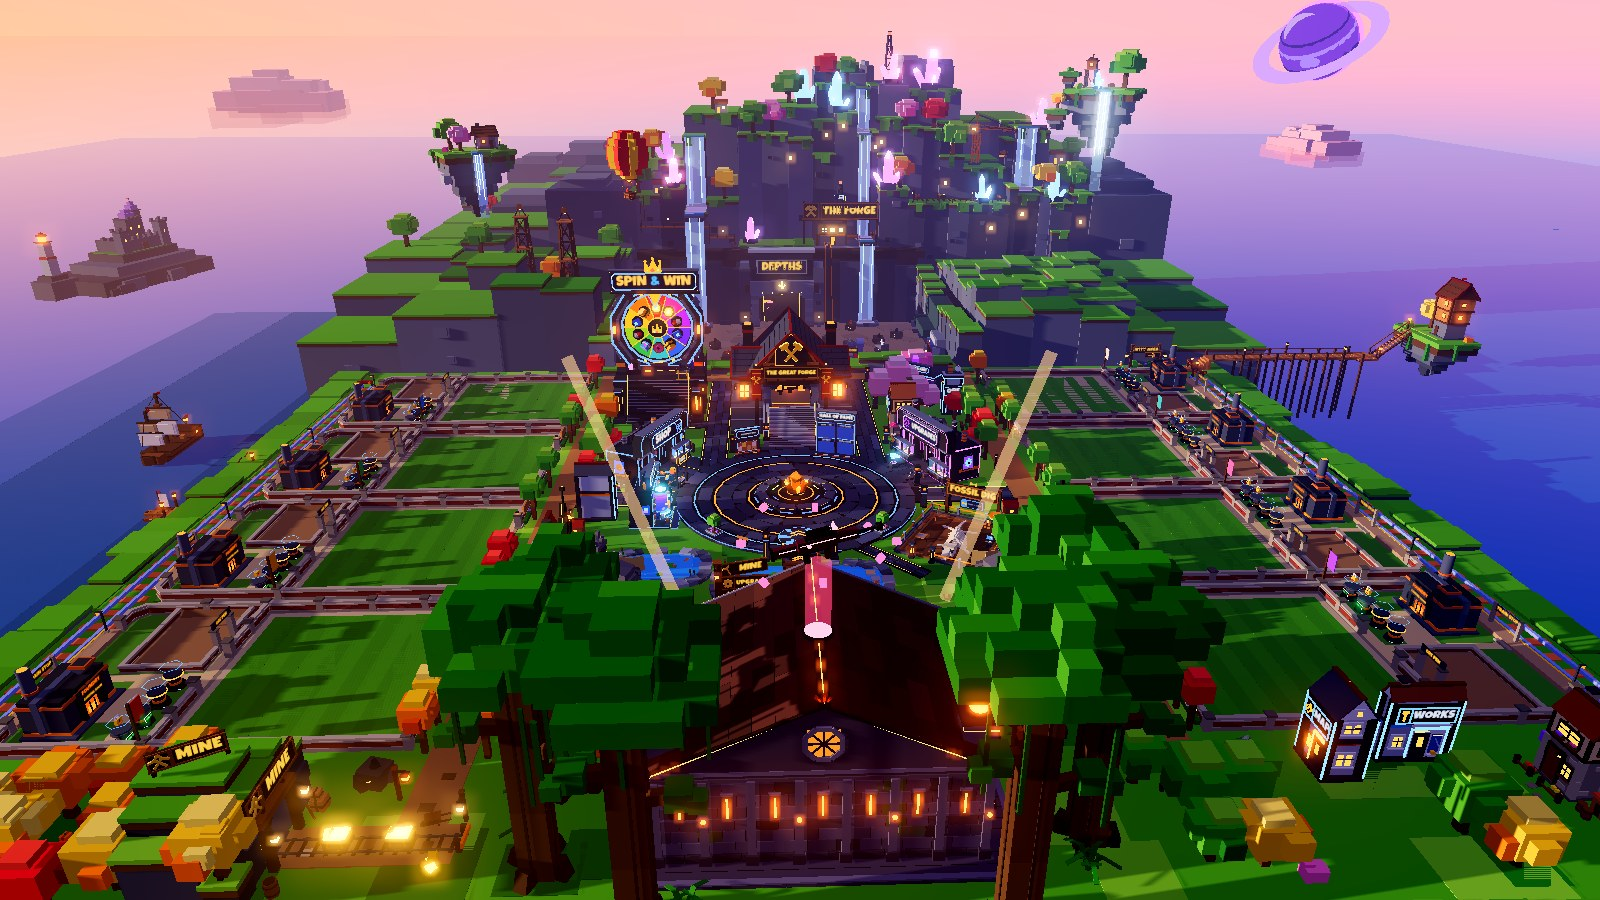
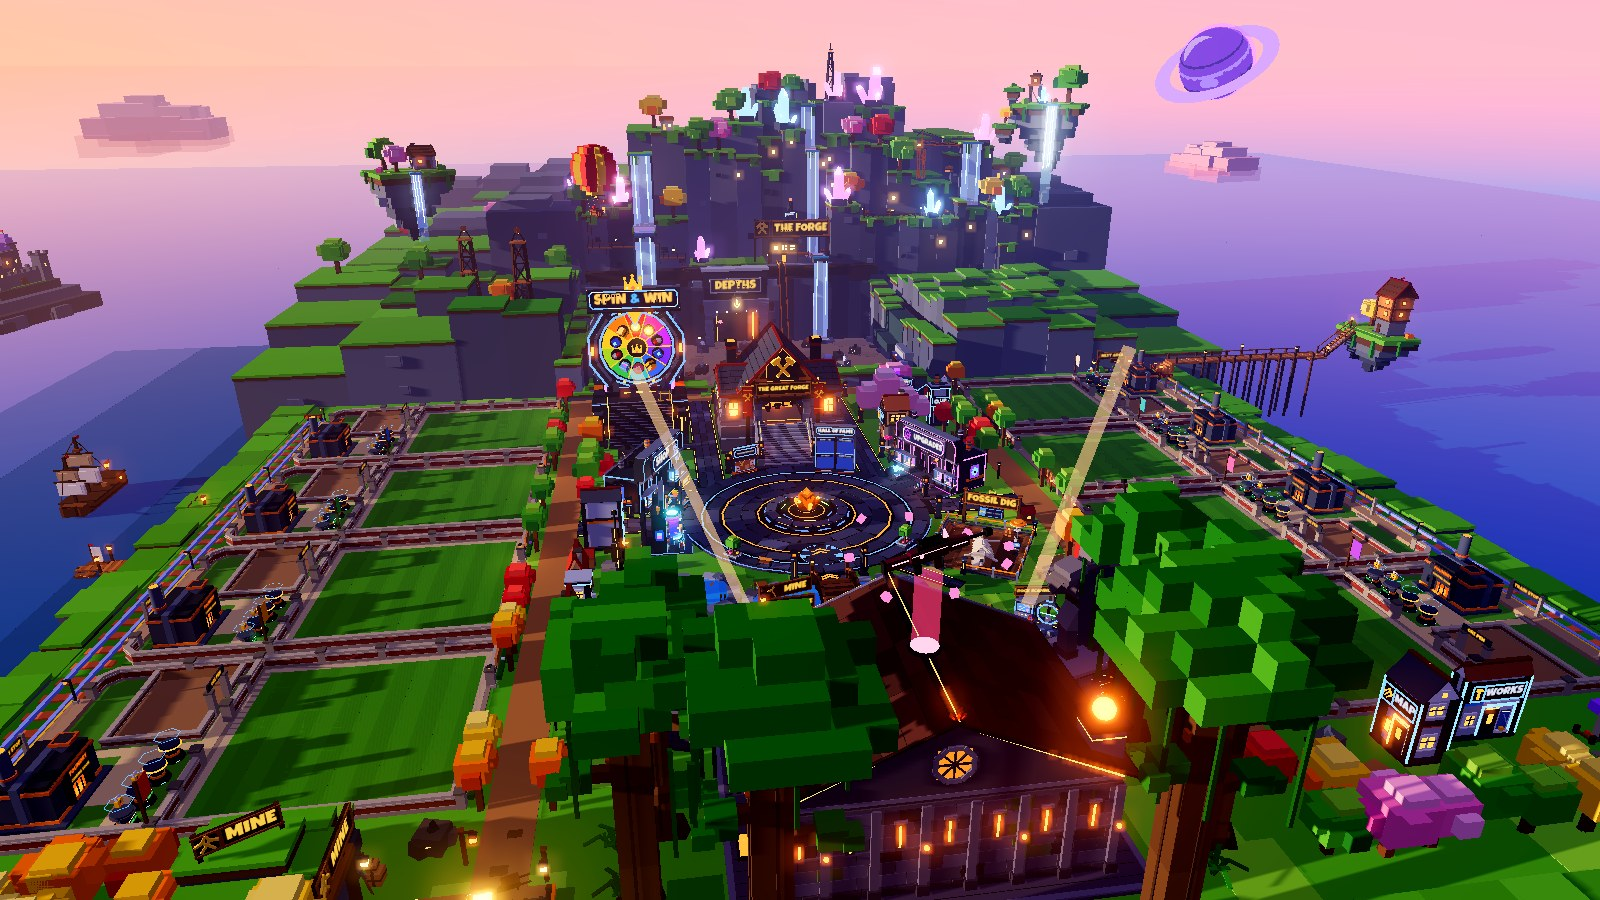
Lobby vault fix round 1: whole statues, 3/4 hero, hamlet lane, docs
- lobby_vault (0, 27, 32) -> (0, 18, 112): both statues and their raised
  blasters whole; lobby_hero (-40, 122, 252) -> (2, 10, -26) fov 50: a 3/4
  view over the vault's back gable, the gas giant wholly in frame
- the south-east hamlet gets a dirt lane (HamletLane + ToMap) from the east
  plot road's end to the MAP door, south of the ore outcrop; its lantern
  moves beside the lane
- Flora: a tree-free box keeps the autumn crowns off the MINE hill, the
  hamlet box stops at z 138 so the island's south edge keeps its trees
  (22 scattered trees); MineCottage -> RowCottage, Town/recipe comments
  describe the south-east hamlet
- Town.relocate moves the MINE models with PivotTo (pivots move too)
- budgets: MapParts 17500 (LobbyBudget: map + ore nodes + 200), LobbyParts
  11400 with a documented ~200-part buffer
- package shots re-aimed off the vault, statues and tree trunks (town_*,
  flora_autumn, flora_bridge, d_scanner)
- LOBBY_PLAN: six packages, 6.6 Package Vault, a Vault table in section 4,
  hero / vault / spawn / west rows fixed, the scanner, bridge and koi pond
  are no longer in the hero on purpose

diff --git a/docs/plans/LOBBY_PLAN.md b/docs/plans/LOBBY_PLAN.md
@@ -7,7 +7,7 @@ Layout data: [`src/shared/Config/LobbyLayout.luau`](../../src/shared/Config/Lobb
 (the single source of truth for every set piece below; only the art director edits it).
 
 The build is split into **six packages** (Sky, Backdrop, Plaza, Districts, Flora, and since
-2026-10-17 Vault, see section 0) that work in parallel without touching the same files (section 6).
+2026-10-17 Vault, see section 0 and 6.6) that work in parallel without touching the same files (section 6).
 
 > **Design v2 (2026-10-16) changes – read section 0 first.** They override the rows below where they differ.
 
@@ -21,15 +21,20 @@ The build is split into **six packages** (Sky, Backdrop, Plaza, Districts, Flora
   15.4 x 45 x 13.4 (the pedestals) turned (+-0.296, 0, -0.955) to the plaza, and the reservations `VaultTree1..6`
   (`Reserve = true`, Radius = the canopy: they keep the scatter and the town buildings away, may overlap their own
   package's pieces; the package places the trees as offsets from the vault). Budget 3500 parts / 6 lights
-  (~2970 / 5 built); MapParts 17350, LobbyParts 11250, lobby lights 40 / 45.
+  (~2970 / 5 built); lobby lights 40 / 45. MapParts 17500 (tests/LobbyBudget.spec.luau: the built map, ~15,800
+  parts, + one ore node on every node spawn, ~1,320, must stay 200 under it; ~170 parts of headroom), LobbyParts
+  11400 (~11,200 built: ~200 parts of deliberate buffer for small merges from the parallel package sessions).
   Moved for it: the south road (WorldLayout) now ends at the vault's steps (z 74, its strip at z 79); the **MINE**
   (`MineEntrance` + `MineYard`, Backdrop) went to the south-west corner past the west plot road's end, at
   (-100, 0, 134) facing E (Lowlands still builds them at their design spot; `DesignCenter`/`DesignFacing` on the
   pieces let Town.relocate move the built models); `AutumnCorner` behind the mine hill (-139, 0, 130); the paths
   `ToMine` (dirt under the rails), `MineLane` (west plot road's end -> yard) and `ToScanner` (north of the vault's
   steps); Flora's `MapTower`, `SpurWorkshop` and `GardenCottage` became a small hamlet in the south-east corner
-  past the east plot road's end; the junction lanterns flank the vault's steps. The ROCK SCANNER (43, 0, 69) keeps
-  6+ studs from the east statue.
+  past the east plot road's end, reached by the dirt lane `HamletLane` + `ToMap` (east plot road's end -> the MAP
+  door, south of the ore outcrop at (82, 118)); the west street's `MineCottage` was renamed `RowCottage` (it stands
+  by the vault's west statue, far from the MINE); the junction lanterns flank the vault's steps. The ROCK SCANNER
+  (43, 0, 69) keeps 5+ studs from the east statue's pedestal. A Flora tree-free box keeps the scatter's autumn
+  trees off the MINE hill (they frame it from the west and the south).
 - **SHOP** (`Shop`) is the **Gear shop** (boots, helmet with a head lamp, backpack, gloves, magnet): hook
   `ShopCounter` only. Pell is gone.
 - **`ShopFront` is Tobin's Sell stall** next to the SHOP: an ore cart with a counter and a brass scale (hook
@@ -107,7 +112,7 @@ next to the concept to see where each concept element lands.
 - Plaza center (0, 0, 0), radius 36. Spawn `TownSpawn` at (0, 0, 26) (Town.luau builds it).
 - Great Forge landmark at (0, 0, -52), facing south (+Z) toward the plaza.
 - Plots (can't move): 8 pads 56x56 centered at x = +-104, z = 84, 28, -28, -84.
-- Roads (can't move): south road x=0 z 36..140; spurs z=0 x +-36..70; plot roads x = +-70
+- Roads (can't move): south road x=0 z 36..74 (its strip ends at z 79, the Blaster Vault's steps); spurs z=0 x +-36..70; plot roads x = +-70
   z -112..116; forge paths x = +-26 z -28..-112; quarry rim road z=-112 x -70..70.
 - Quarry pit x -72..72, z -236..-122, floor Y -12, ramp at x=0 from z -112 to -140.
 - Ember Caves entrance (0, -12, -240) (18 wide x 16 tall), caves behind it under a roof
@@ -126,10 +131,10 @@ lines the plot roads with trees.
 
 | Shot | Camera -> target (fov) | Purpose |
 |---|---|---|
-| `lobby_hero` | (-8, 128, 262) -> (2, 6, -22) (50) | **The concept angle** (Blaster Vault, 2026-10-17): elevated from far south over the vault's roof, the vault and its jungle trees in the foreground, the MINE (hill, carts, two MINE boards) bottom left, the MAP / WORKS hamlet bottom right, the plaza with the fire crystal, SHOP / SPIN & WIN left, UPGRADES / FOSSIL DIG right, THE GREAT FORGE in the middle, the massif with DEPTHS, THE FORGE, waterfalls and crystals filling the upper middle, the violet gas giant wholly in the top-right sky. |
-| `lobby_vault` | (0, 28, 40) -> (0, 20, 112) (64) | From the plaza's south rim over the bridge to the BLASTER VAULT (like the owner's render): the glass front with its sign, the hologram, both statues whole with their blasters and the jungle trees, the signpost bottom right, the MINE board far right; nothing in front of the doors. |
-| `lobby_spawn` | (0, 9, 46) -> (0, 12, -40) (70) | What a new player sees: fire crystal, Great Forge, SHOP left, UPGRADES right, mountain and portal above the roof. |
-| `lobby_west` | (18, 18, 26) -> (-70, 6, -14) (65) | Toward the sunset: SHOP, SPIN & WIN, NW cliff and waterfall, sea, ships, pier, sun glitter. |
+| `lobby_hero` | (-40, 122, 252) -> (2, 10, -26) (50) | **The concept angle** (Blaster Vault, 2026-10-17): elevated from far south-south-west, a 3/4 view over the vault (its back gable, pillars and lit windows, the hologram over the ridge) and its jungle trees in the foreground, the two MINE boards bottom left, the MAP / WORKS hamlet bottom right, the plaza with the fire crystal, SHOP / SPIN & WIN left, UPGRADES / FOSSIL DIG right, THE GREAT FORGE in the middle, the massif with DEPTHS, THE FORGE, waterfalls and crystals filling the upper middle, the violet gas giant wholly in the top-right sky (tests/LobbySky.spec.luau). **No longer in the hero, on purpose:** the ROCK SCANNER, the creek bridge and the koi pond stand north of the vault, hidden by the vault, `VaultTree5` and the east statue from every camera south of the island; do not move the hero camera to bring them back (`lobby_south`, `lobby_vault` and `d_scanner` show them). |
+| `lobby_vault` | (0, 27, 32) -> (0, 18, 112) (64) | From the plaza's south rim over the bridge to the BLASTER VAULT (like the owner's render): the glass front with its sign, the hologram, both statues whole with their raised blasters and the jungle trees, the signpost bottom right, the MINE board right, the MAP house left; nothing in front of the doors. |
+| `lobby_spawn` | (0, 13, 58) -> (-4, 7, -50) (62) | What a new player sees: fire crystal, Great Forge, SHOP left, UPGRADES right, mountain and portal above the roof. |
+| `lobby_west` | (14, 20, 26) -> (-62, 8, -40) (65) | Toward the sunset: SHOP, SPIN & WIN, NW cliff and waterfall, sea, ships, pier, sun glitter. |
 | `lobby_east` | (-14, 16, 36) -> (64, 6, -6) (65) | UPGRADES, FOSSIL DIG, ROCK SCANNER, pink grove, NEXT AREA in the distance. |
 | `lobby_south` | (6, 34, -28) -> (-4, 0, 78) (65) | From the forge porch over the plaza to the bridge, ponds, signpost and the Blaster Vault between its statues. |
 | `lobby_backdrop` | (26, 24, -96) -> (4, 16, -240) (62) | From the quarry rim: DEPTHS portal, ForgeWorks, waterfalls, crane, the massif. |
@@ -193,7 +198,7 @@ piece's front (LookVector). Build inside your footprint and height budget.
 | SPIN & WIN wheel | SpinWheel | (-48, 0, 18) | 18 x 26 x 10 | (0.85, 0, 0.53) | wheel spins (Spin), EmberChest on its platform |
 | guild notice board | GuildBoard | (-15, 0, -30) | 9 x 10 x 3 | S | tag GuildBoard |
 | FOSSIL DIG with dinosaur skeleton | FossilDig | (50, 0, 24) | 18 x 8 x 24 | W | tag FossilDig |
-| ROCK SCANNER terminal | RockScanner | (56, 0, 80) | 12 x 10 x 10 | (-0.71, 0, 0.71) | tag OreCodex on the terminal |
+| ROCK SCANNER terminal | RockScanner | (43, 0, 69) | 12 x 11 x 10 | (-0.6, 0, 0.8) | tag OreCodex on the terminal; north-west of the vault's east statue |
 
 ### Water, trees, wayfinding (package Flora)
 | Concept element | Id | Center | Size | Facing | Notes |
@@ -209,18 +214,31 @@ piece's front (LookVector). Build inside your footprint and height budget.
 | big red tree (foreground right) | RedTree | (28, 0, 40) | r 6, h 18 | - | hero tree |
 | yellow/orange trees (foreground left) | AutumnCorner | (-139, 0, 130) | r 12, h 18 | - | cluster behind the MINE hill |
 | colorful voxel trees, flowers, fences, lanterns | rule | - | - | - | scatter with `LobbyLayout.isFree` |
+| town buildings | rule (Flora/Town.luau `Sites`) | - | - | - | west street (CARTS, Lodge, TOOLS, RowCottage), INN and ORE behind UPGRADES, the south-east hamlet (MAP, WORKS, garden cottage) |
+
+### Blaster Vault (package Vault)
+| Concept element | Id | Center | Size | Facing | Notes |
+|---|---|---|---|---|---|
+| BLASTER VAULT (the blaster shop, owner's render) | BlasterVault | (0, 0, 112.4) | 67.2 x 76 x 65.6 | N (to the plaza) | podium 1.3, eaves ~20, ridge ~34, fire towers ~31, hologram ~55, searchlights ~76; hook `VaultCounter`, a `LightingZone` inside; closes the south road (its steps at z 79.6) |
+| giant stone king statue (left) | VaultStatueWest | (-43, 0, 92) | 15.4 x 45 x 13.4 | (0.296, 0, -0.955) | the pedestal; lava cracks, the blaster arm on the outer side |
+| giant stone king statue (right) | VaultStatueEast | (43, 0, 92) | 15.4 x 45 x 13.4 | (-0.296, 0, -0.955) | mirrored |
+| jungle trees behind the vault | VaultTree1 / VaultTree2 | (-29, 0, 153) / (29, 0, 155) | r 15 / 16, top 57 / 61 | - | reservations (`Reserve`), on the south cliff top |
+| jungle trees west of the vault | VaultTree3 / VaultTree4 | (-45, 0, 120) / (-47, 0, 140) | r 13 / 14, top 49 / 53 | - | reservations |
+| jungle trees east of the vault | VaultTree5 / VaultTree6 | (45, 0, 108) / (46, 0, 136) | r 13 / 14, top 49 / 53 | - | reservations (VaultTree5 stands behind the east statue) |
 
 ### Paths (`LobbyLayout.Paths`, rendered by Plaza)
 | Id | From -> To | Width | Kind |
 |---|---|---|---|
 | ToShop | (-28, -13) -> (-40, -19) | 12 | Cobble |
 | ToUpgrades | (28, -13) -> (40, -19) | 12 | Cobble |
-| ToWheel | (-31, 17) -> (-41, 22) | 7 | Cobble |
-| ToFossil | (33, 14) -> (40, 20) | 7 | Cobble |
+| ToWheel | (-30.9, -59.6) -> (-44.5, -58.5) | 6 | Cobble |
+| ToFossil | (17.5, 32.5) -> (30.5, 45.5) | 5 | Cobble |
 | ToScanner | (5, 71) -> (37, 74) | 6 | Cobble |
 | MineLane | (-70, 118) -> (-70, 125) | 9 | Dirt |
 | ToMine | (-67, 134) -> (-88, 134) | 9 | Dirt |
-| ToNextArea | (75, -115) -> (160, -115) | 6 | Cobble |
+| HamletLane | (70, 119) -> (80, 127.5) | 5 | Dirt |
+| ToMap | (80, 127.5) -> (88, 125) | 5 | Dirt |
+| ToNextArea | (75, -115) -> (160, -115) | 6 | Dirt |
 
 ## 5. Gameplay hooks (other services depend on these)
 
@@ -236,6 +254,8 @@ piece's front (LookVector). Build inside your footprint and height budget.
 | `EmberChest` (tag) | Model with PrimaryPart, inside the `SpinWheel` model (free daily reward) | SPIN & WIN | Districts |
 | `GuildBoard` (tag) | Model with PrimaryPart | GuildBoard | Districts |
 | `OreCodex` (tag, new) | Model (terminal) with PrimaryPart | ROCK SCANNER | Districts |
+| `VaultCounter` (tag) | BasePart: the blaster shop counter top | BlasterVault | Vault |
+| `LightingZone` (tag) | invisible zone over the vault's inside, attribute `Preset` (VaultInterior) | BlasterVault | Vault |
 | `FossilDig` (tag, new) | Model (dig site) with PrimaryPart | FOSSIL DIG | Districts |
 | `Spin` (tag) | Model with PrimaryPart and Atomic streaming; attributes SpinSpeed, BobHeight, BobSpeed | fire crystal (Plaza), wheel disc (Districts), balloon (Sky), ships bob (Sky) | several |
 | `TownSpawn` (name) | SpawnLocation at (0, 0.25, 26) | built by Town.luau | none (keep clear) |
@@ -243,7 +263,7 @@ piece's front (LookVector). Build inside your footprint and height budget.
 Until a package lands, `TownLegacy.luau` keeps building the old piece that provides the
 hook (see 7.2), so every hook exists at every commit.
 
-## 6. The five packages
+## 6. The six packages
 
 Common rules for all packages:
 - You own the files listed for you and nothing else. Never edit `LobbyLayout.luau`,
@@ -263,11 +283,15 @@ Common rules for all packages:
 
   | Package | Parts | Parts in lobby area | Lights | Lights in lobby area |
   |---|---|---|---|---|
-  | Sky | 1400 | 150 | 6 | 2 |
-  | Backdrop | 1800 (+300 in Land.luau) | 500 | 10 | 3 |
-  | Plaza | 1100 | 1100 | 10 | 10 |
-  | Districts | 1000 | 1000 | 8 | 8 |
-  | Flora | 1500 | 1300 | 8 | 8 |
+  | Sky | 1800 | 200 | 6 | 2 |
+  | Backdrop | 1800 (+ LandExtraParts in Land.luau) | 500 | 10 | 3 |
+  | Plaza | 1600 | 1600 | 10 | 10 |
+  | Districts | 2400 | 2400 | 11 | 11 |
+  | Flora | 2550 | 2350 | 8 | 8 |
+  | Vault | 3500 | 3500 | 6 | 6 |
+
+  (the values in `LobbyLayout.Budget.Packages` win where they differ; whole map 17500 parts, lobby area 11400
+  parts and 45 lights, see section 0)
 - Add your own spec `tests/Lobby<Package>.spec.luau` (hooks, footprints, walkability of
   your walkable pieces). `tools/check.sh` must pass. Render your shots and look at them.
 - Commit without `build/TerraForge.rbxl` (`git checkout -- build/TerraForge.rbxl`).
@@ -546,6 +570,27 @@ Build:
 Shots: `lobby_hero`, `lobby_south`, `lobby_spawn`, `lobby_east`. Done when the hero
 shot's foreground matches the concept: bridge over the creek between two ponds, the
 signpost, the red tree, the autumn corner, pink trees behind UPGRADES, and no bare lawn.
+(Since the Blaster Vault the bridge and the ponds read in `lobby_south` and `lobby_vault`,
+not in the hero, see section 3.)
+
+### 6.6 Package Vault
+
+**Owner:** the blaster session (the blaster shop and its interior belong to the blasters work).
+**Owns:** `src/server/World/Lobby/Vault/**` (`init.luau` returns `{ Replaces = {}, build }`;
+Building, Interior, Statue, Tree, Kit), `tests/LobbyVault.spec.luau`; the owner's reference
+renders come from `tools/lune/lib/vault_game.luau` (scene `vault_game`).
+**Replaces:** nothing.
+
+Pieces (section 4, "Blaster Vault"): `BlasterVault`, `VaultStatueWest`, `VaultStatueEast` and
+the reservations `VaultTree1..6`. The package reads its frames from `LobbyLayout.ById` and
+places the jungle trees as offsets from the vault, so they move with it (keep the
+reservations in LobbyLayout in step when the trees move). Hooks: `VaultCounter` (the shop
+counter top), `LightingZone` (Preset VaultInterior) over the inside.
+
+Budget: 3500 parts, 6 lights (both in the lobby area), <= 12 particle emitters (~2970 parts
+and 5 lights built). Shots: `lobby_vault`, `lobby_south` (and `lobby_hero` for the 3/4 view
+of its back). Done when the vault reads like the owner's render from the plaza: both statues
+whole with their blasters, the sign and the glass front, nothing in front of the doors.
 
 ## 7. Integration
 
@@ -566,9 +611,9 @@ exists (`LobbyLayout.Packages` order) into `Emberfall.Lobby.<Package>` with
 | guildBoard | `GuildBoard` | Districts |
 | scatter | old trees, rocks, flowers | Flora |
 
-When all five packages have landed, the art director deletes TownLegacy.luau.
+When all six packages have landed, the art director deletes TownLegacy.luau.
 
 ### 7.3 Merge order
 Any order works (no shared files). Suggested: Backdrop and Sky first (they change the
-whole mood), then Plaza, Districts, Flora. After each merge: `tools/check.sh`,
+whole mood), then Plaza, Districts, Flora, Vault. After each merge: `tools/check.sh`,
 `lune run tools/lune/lobby_stats.luau`, render `lobby_hero` and compare with the concept.
